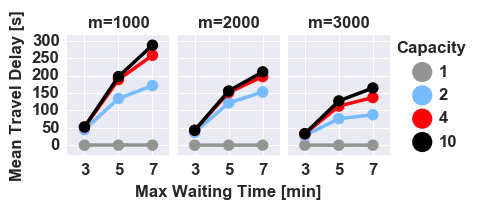
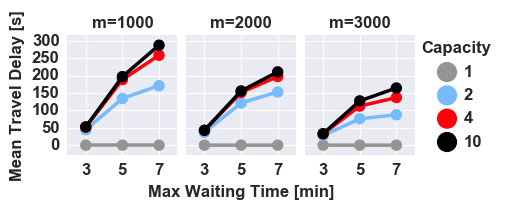
Making slightly wider

diff --git a/scripts/plot_metrics.py b/scripts/plot_metrics.py
@@ -327,7 +327,7 @@ def make_avg_plots(big_d, plot_type):
         min_val = None
         axes = list()
         fig = plt.figure()
-        fig.set_size_inches(1.3 * 3.2, 1.5)
+        fig.set_size_inches(1.4 * 3.2, 1.5)
         for i, v in enumerate(iover, start=1):
             plt.subplot(1, len(iover), i)
             plt.subplots_adjust(wspace=0.08)
